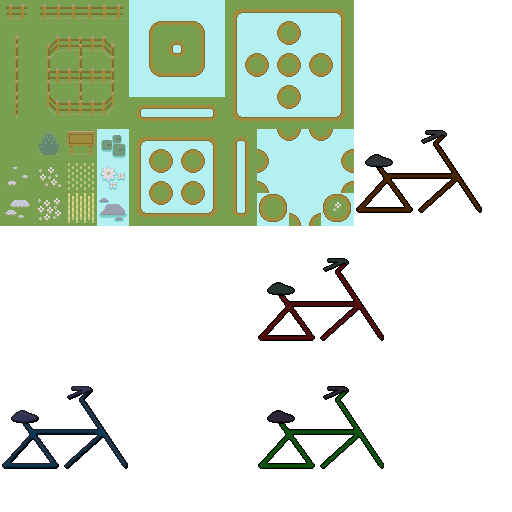
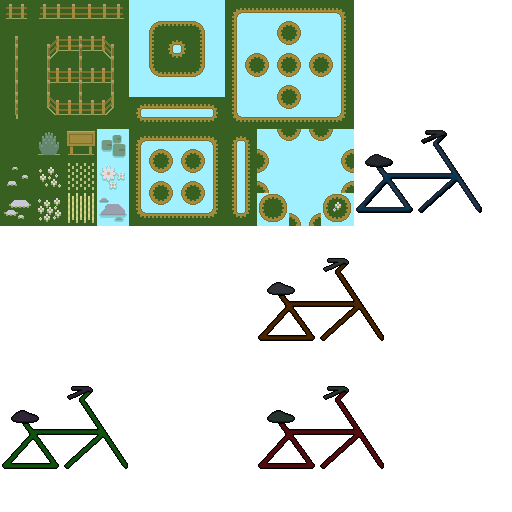
bike up
bike up

diff --git a/c3/bike/scripts/c3runtime.js b/c3/bike/scripts/c3runtime.js
@@ -1407,7 +1407,9 @@ d&&d.SetAction(()=>this._CancelJob(h));this._inputPort.postMessage(b,e);this._Ma
 b.result);break;case "progress":this._OnJobProgress(e,b.progress);break;case "error":this._OnJobError(e,b.error);break;case "ready":this._OnJobWorkerReady();break;case "_testMessageChannelOk":this._OnTestMessageChannelOk();break;default:throw Error(`unknown message from worker '${a}'`);}}_OnJobResult(b,a){const e=this._jobPromises.get(b);if(!e)throw Error("invalid job ID");e.cancelled||e.resolve(a);this._jobPromises.delete(b)}_OnJobProgress(b,a){b=this._jobPromises.get(b);if(!b)throw Error("invalid job ID");
 !b.cancelled&&b.progress&&b.progress(a)}_OnJobError(b,a){const e=this._jobPromises.get(b);if(!e)throw Error("invalid job ID");e.cancelled||e.reject(a);this._jobPromises.delete(b)}_OnJobWorkerReady(){this._isCreatingWorker&&(this._isCreatingWorker=!1,this._jobWorkerCount++,this._jobWorkerCount<this._maxNumWorkers?this._MaybeCreateExtraWorker():this._inputPort.postMessage({type:"_no_more_workers"}))}async _MaybeCreateExtraWorker(){if(!(this._jobWorkerCount>=this._maxNumWorkers||this._isCreatingWorker||
 this._hadErrorCreatingWorker||this._jobPromises.size<=this._jobWorkerCount))try{this._isCreatingWorker=!0,(await this._runtime.PostComponentMessageToDOMAsync("runtime","create-job-worker")).outputPort.onmessage=b=>this._OnJobWorkerMessage(b)}catch(b){this._hadErrorCreatingWorker=!0,this._isCreatingWorker=!1,console.error(`[Construct 3] Failed to create job worker; stopping creating any more (created ${this._jobWorkerCount} so far)`,b)}}_TestMessageChannelWorks(){this._inputPort.postMessage({type:"_testMessageChannel"});
-self.setTimeout(()=>this._CheckMessageChannelTestTimedOut(),2E3);return new Promise(b=>this._testOkResolve=b)}_OnTestMessageChannelOk(){this._testOkResolve();this._testOkResolve=null}_CheckMessageChannelTestTimedOut(){this._testOkResolve&&(console.warn("MessageChannel determined to be broken. Job scheduler disabled."),this._isBroken=!0,this._testOkResolve(),this._testOkResolve=null)}}}self.C3_Shaders={};"use strict";
+self.setTimeout(()=>this._CheckMessageChannelTestTimedOut(),2E3);return new Promise(b=>this._testOkResolve=b)}_OnTestMessageChannelOk(){this._testOkResolve();this._testOkResolve=null}_CheckMessageChannelTestTimedOut(){this._testOkResolve&&(console.warn("MessageChannel determined to be broken. Job scheduler disabled."),this._isBroken=!0,this._testOkResolve(),this._testOkResolve=null)}}}self.C3_Shaders={};
+self.C3_Shaders.hsladjust={src:"varying mediump vec2 vTex;\nuniform lowp sampler2D samplerFront;\nprecision mediump float;\nuniform float huerotate;\nuniform float satadjust;\nuniform float lumadjust;\nvec3 rgb_to_hsl(vec3 color)\n{\nvec3 hsl = vec3(0.0, 0.0, 0.0);\nfloat fmin = min(min(color.r, color.g), color.b);\nfloat fmax = max(max(color.r, color.g), color.b);\nfloat delta = fmax - fmin;\nhsl.z = (fmax + fmin) / 2.0;\nif (delta == 0.0)\n{\nhsl.x = 0.0;\nhsl.y = 0.0;\n}\nelse\n{\nif (hsl.z < 0.5)\nhsl.y = delta / (fmax + fmin);\nelse\nhsl.y = delta / (2.0 - fmax - fmin);\nfloat dR = (((fmax - color.r) / 6.0) + (delta / 2.0)) / delta;\nfloat dG = (((fmax - color.g) / 6.0) + (delta / 2.0)) / delta;\nfloat dB = (((fmax - color.b) / 6.0) + (delta / 2.0)) / delta;\nif (color.r == fmax)\nhsl.x = dB - dG;\nelse if (color.g == fmax)\nhsl.x = (1.0 / 3.0) + dR - dB;\nelse if (color.b == fmax)\nhsl.x = (2.0 / 3.0) + dG - dR;\nif (hsl.x < 0.0)\nhsl.x += 1.0;\nelse if (hsl.x > 1.0)\nhsl.x -= 1.0;\n}\nreturn hsl;\n}\nfloat hue_to_rgb(float f1, float f2, float hue)\n{\nif (hue < 0.0)\nhue += 1.0;\nelse if (hue > 1.0)\nhue -= 1.0;\nfloat ret;\nif ((6.0 * hue) < 1.0)\nret = f1 + (f2 - f1) * 6.0 * hue;\nelse if ((2.0 * hue) < 1.0)\nret = f2;\nelse if ((3.0 * hue) < 2.0)\nret = f1 + (f2 - f1) * ((2.0 / 3.0) - hue) * 6.0;\nelse\nret = f1;\nreturn ret;\n}\nvec3 hsl_to_rgb(vec3 hsl)\n{\nvec3 rgb = vec3(hsl.z);\nif (hsl.y != 0.0)\n{\nfloat f2;\nif (hsl.z < 0.5)\nf2 = hsl.z * (1.0 + hsl.y);\nelse\nf2 = (hsl.z + hsl.y) - (hsl.y * hsl.z);\nfloat f1 = 2.0 * hsl.z - f2;\nrgb.r = hue_to_rgb(f1, f2, hsl.x + (1.0 / 3.0));\nrgb.g = hue_to_rgb(f1, f2, hsl.x);\nrgb.b = hue_to_rgb(f1, f2, hsl.x - (1.0 / 3.0));\n}\nreturn rgb;\n}\nvoid main(void)\n{\nvec4 front = texture2D(samplerFront, vTex);\nvec3 rgb = rgb_to_hsl(front.rgb) + vec3((huerotate > 0.5 ? huerotate - 1.0 : huerotate), 0, (lumadjust - 1.0) * front.a);\nrgb.y *= satadjust;\nrgb = hsl_to_rgb(rgb);\ngl_FragColor = vec4(rgb, front.a);\n}",extendBoxHorizontal:0,
+extendBoxVertical:0,crossSampling:!1,mustPreDraw:!1,preservesOpaqueness:!0,animated:!1,parameters:[["huerotate",0,"percent"],["satadjust",0,"percent"],["lumadjust",0,"percent"]]};"use strict";
 {const f=self.C3;let b=null,a="",e="",c=[],d="",h="",k="";const n=f.New(f.ArrayStack);function m(g,q){g=g[1];q=q[1];if("number"===typeof g&&"number"===typeof q)return g-q;g=""+g;q=""+q;return g<q?-1:g>q?1:0}f.Plugins.System=class extends f.SDKPluginBase{constructor(g){super(g);this._loopStack=this._runtime.GetEventSheetManager().GetLoopStack();this._eventStack=this._runtime.GetEventSheetManager().GetEventStack();this._imagesLoadingComplete=this._imagesLoadingTotal=0;this._functionMaps=new Map}Release(){super.Release()}UpdateRender(){this._runtime.UpdateRender()}Trigger(g){this._runtime.Trigger(g,
 null,null)}GetRegex(g,q){b&&g===a&&q===e||(b=new RegExp(g,q),a=g,e=q);b.lastIndex=0;return b}GetRegexMatches(g,q,t){if(g===d&&q===h&&t===k)return c;const r=this.GetRegex(q,t);c=g.match(r);d=g;h=q;k=t;return c}async _LoadTexturesForObjectClasses(g,q){if(q.length){this._imagesLoadingTotal+=q.length;var t=[];for(const r of q)t.push(g.MaybeLoadTexturesFor(r));await f.PromiseAllWithProgress(t,()=>{this._imagesLoadingComplete++});this._imagesLoadingComplete++;this._imagesLoadingComplete===this._imagesLoadingTotal&&
 (this._runtime.Trigger(f.Plugins.System.Cnds.OnImageLoadingComplete,null,null),this._imagesLoadingTotal=this._imagesLoadingComplete=0)}}_UnloadTexturesForObjectClasses(g,q){for(const t of q)0===t.GetInstanceCount()&&g.MaybeUnloadTexturesFor(t)}_GetForEachStack(){return n}_Repeat(g){var q=this._runtime.GetEventSheetManager();const t=q.GetEventStack(),r=t.GetCurrentStackFrame(),u=r.GetCurrentEvent(),w=u.GetSolModifiers();var y=r.IsSolModifierAfterCnds();const B=t.Push(u),G=q.GetLoopStack(),x=G.Push();
@@ -1839,11 +1841,12 @@ n,m,g,q,t,r,u,w,y){this._SetCommonProperties(c,n,t,r,u,w,y);k=b.Maps.GetPairProp
 {const f=self.C3,b=f.Behaviors.Tween,a=[];b.PropertyTypes=class{constructor(){}static Pick(e){0===a.length&&(a.push({checkFunc:b.Maps.IsPairId,result:this.PAIR}),a.push({checkFunc:b.Maps.IsColorId,result:this.COLOR}),a.push({checkFunc:b.Maps.IsAngleId,result:this.ANGLE}),a.push({checkFunc:b.Maps.IsValueId,result:this.VALUE}),a.push({checkFunc:()=>!0,result:this.OTHER}));f.IsFiniteNumber(e)&&(e=f.Behaviors.Tween.Maps.GetPropertyFromIndex(e));for(const c of a)if(c.checkFunc(e))return c.result}static get PAIR(){return"pair"}static get COLOR(){return"color"}static get ANGLE(){return"angle"}static get VALUE(){return"value"}static get OTHER(){return"other"}}}"use strict";
 {const f=self.C3;f.Behaviors.Tween.ValueGetters=class{constructor(){}static _GetPropertyAngleValue(b){b=f.toRadians(parseFloat(b));return f.clampAngle(b)}static _GetColorPropertyValue(b){return b.slice(0)}static _GetPropertyValue(b){return b}}}"use strict";
 {const f=self.C3;self.C3_GetObjectRefTable=function(){return[f.Plugins.Tilemap,f.Plugins.Sprite,f.Behaviors.Sin,f.Plugins.TiledBg,f.Behaviors.Physics,f.Behaviors.Pin,f.Plugins.Mouse,f.Plugins.Keyboard,f.Plugins.Text,f.Plugins.NinePatch,f.Behaviors.Rotate,f.Behaviors.Orbit,f.Behaviors.Flash,f.Behaviors.scrollto,f.Behaviors.Tween,f.Plugins.Particles,f.Plugins.System.Cnds.OnLayoutStart,f.Plugins.System.Acts.CreateObject,f.Plugins.Sprite.Exps.X,f.Plugins.Sprite.Exps.Y,f.Plugins.Sprite.Acts.Spawn,f.Behaviors.Pin.Acts.PinByImagePoint,
-f.Behaviors.Physics.Acts.CreateRevoluteJoint,f.Plugins.System.Acts.SetBoolVar,f.Plugins.System.Acts.SetVar,f.Plugins.Sprite.Cnds.OnCollision,f.Plugins.Sprite.Acts.Destroy,f.Plugins.System.Acts.AddVar,f.Plugins.Mouse.Cnds.OnObjectClicked,f.Plugins.System.Acts.GoToLayoutByName,f.Plugins.Sprite.Exps.AnimationName,f.Plugins.System.Cnds.PickLastCreated,f.Plugins.Sprite.Cnds.IsBoolInstanceVarSet,f.Behaviors.Physics.Acts.SetAngularVelocity,f.Behaviors.Physics.Exps.AngularVelocity,f.Plugins.Keyboard.Cnds.OnKey,
-f.Plugins.System.Cnds.CompareBoolVar,f.Plugins.System.Acts.ToggleBoolVar,f.Plugins.System.Acts.SetTimescale,f.Plugins.Sprite.Acts.SetVisible,f.Plugins.Sprite.Acts.SetAnim,f.Plugins.Sprite.Acts.SetDefaultColor,f.Plugins.Sprite.Cnds.IsOverlapping,f.Plugins.System.Acts.GoToLayout,f.Plugins.System.Cnds.Compare,f.Behaviors.Physics.Exps.ContactCount,f.Plugins.Sprite.Acts.SetBoolInstanceVar,f.Plugins.Keyboard.Cnds.IsKeyDown,f.Behaviors.Physics.Acts.ApplyTorque,f.Behaviors.Physics.Acts.ApplyImpulseAtAngle,
-f.Behaviors.Physics.Acts.ApplyForceAtAngle,f.Behaviors.Physics.Exps.VelocityX,f.Plugins.Sprite.Acts.SetMirrored,f.Plugins.System.Cnds.CompareVar,f.Plugins.System.Acts.SubVar,f.Plugins.Sprite.Cnds.IsMirrored,f.Plugins.Sprite.Exps.Angle,f.Plugins.System.Exps.random,f.Behaviors.Physics.Acts.RemoveJoints,f.Behaviors.Pin.Acts.Unpin,f.Behaviors.Physics.Acts.SetEnabled,f.Behaviors.scrollto.Acts.Shake,f.Plugins.System.Cnds.TriggerOnce,f.Plugins.Text.Acts.SetVisible,f.Behaviors.Flash.Acts.Flash,f.Plugins.TiledBg.Cnds.CompareOpacity,
-f.Plugins.TiledBg.Acts.SetOpacity,f.Plugins.TiledBg.Exps.Opacity,f.Plugins.Mouse.Cnds.OnAnyClick,f.Plugins.Keyboard.Cnds.OnAnyKey,f.Behaviors.Flash.Acts.StopFlashing,f.Behaviors.Tween.Acts.TweenTwoProperties,f.Behaviors.Tween.Cnds.OnTweensFinished]};self.C3_JsPropNameTable=[{Tilemap:0},{Sine:0},{Abilinto:0},{Physics:0},{Pin:0},{SolidMask:0},{Airborne:0},{Wrecked:0},{BikeFrame:0},{BikePedalRight:0},{BikePedalLeft:0},{BikePedals:0},{BikeWheelRear:0},{BikeWheelFront:0},{Mouse:0},{Keyboard:0},{SolidRamp:0},
-{DebugText:0},{Rotate:0},{Orbit:0},{Platform:0},{Fade:0},{YouCrashed:0},{Flag:0},{TryAgain:0},{SpawnPoint:0},{Footer:0},{Flash:0},{YouCrashedFX:0},{SpawnText:0},{ScrollTo:0},{Tween:0},{BikeCollider:0},{HowTo:0},{Gem:0},{NitroFX:0},{Track:0},{TrackSelectFrame:0},{TrackSelect:0},{TrackSelectText:0},{MaxSpeed:0},{Acceleration:0},{JumpPower:0},{BikeCrashed:0},{GamePaused:0},{NitroCharges:0},{NitroPower:0},{NitroTimer:0},{FlagChecked:0},{StageWon:0},{GemsCollected:0}]}"use strict";
-{const f=self.C3;self.C3_ExpressionFuncs=[()=>"Track",b=>{const a=b._GetNode(0);return()=>a.ExpObject()},()=>0,()=>"RearWheel",()=>-1,()=>"FrontWheel",()=>"Pedals",()=>"LeftPedal",()=>"RightPedal",()=>3,()=>1,b=>{const a=b._GetNode(0),e=b._GetNode(1).GetVar(),c=b._GetNode(2).GetVar();return()=>f.clamp(a.ExpBehavior(),-e.GetValue(),c.GetValue())},()=>"Raise",()=>10551200,b=>{const a=b._GetNode(0);return()=>a.ExpBehavior()},b=>{const a=b._GetNode(0).GetVar();return()=>a.GetValue()},b=>{const a=b._GetNode(0).GetVar();
-return()=>-a.GetValue()},b=>{const a=b._GetNode(0).GetVar();return()=>a.GetValue()/4},()=>270,b=>{const a=b._GetNode(0).GetVar();return()=>a.GetValue()/2},b=>{const a=b._GetNode(0).GetVar();return()=>2*a.GetValue()},b=>{const a=b._GetNode(0),e=b._GetNode(1);return()=>a.ExpBehavior()+e.ExpBehavior()},()=>-10,()=>10,()=>60,()=>"Nitro",()=>8,b=>{const a=b._GetNode(0).GetBoundMethod();return()=>a(40,80)},b=>{const a=b._GetNode(0).GetBoundMethod();return()=>a(12,24)},b=>{const a=b._GetNode(0).GetBoundMethod();
-return()=>270+a(-45,45)},b=>{const a=b._GetNode(0).GetBoundMethod();return()=>a(.5,1)},b=>{const a=b._GetNode(0).GetBoundMethod();return()=>a(1,2)},b=>{const a=b._GetNode(0).GetBoundMethod();return()=>a(24,48)},()=>30,()=>.6,()=>"Default",()=>10526975,()=>.1,b=>{const a=b._GetNode(0);return()=>a.ExpObject()+1},()=>"Restart"]}"use strict";self.C3.ScriptsInEvents={};
+f.Behaviors.Physics.Acts.CreateRevoluteJoint,f.Plugins.System.Acts.SetBoolVar,f.Plugins.System.Acts.SetVar,f.Plugins.Sprite.Cnds.OnCollision,f.Plugins.Sprite.Acts.Destroy,f.Plugins.System.Acts.AddVar,f.Plugins.Mouse.Cnds.OnObjectClicked,f.Plugins.System.Acts.GoToLayoutByName,f.Plugins.Sprite.Exps.AnimationName,f.Plugins.Text.Acts.SetText,f.Plugins.System.Exps.zeropad,f.Plugins.System.Cnds.PickLastCreated,f.Plugins.Sprite.Cnds.IsBoolInstanceVarSet,f.Behaviors.Physics.Acts.SetAngularVelocity,f.Behaviors.Physics.Exps.AngularVelocity,
+f.Plugins.Keyboard.Cnds.OnKey,f.Plugins.System.Cnds.CompareBoolVar,f.Plugins.Text.Acts.SetVisible,f.Plugins.System.Acts.ToggleBoolVar,f.Plugins.System.Acts.SetTimescale,f.Plugins.Sprite.Acts.SetVisible,f.Plugins.Sprite.Acts.SetAnim,f.Plugins.Sprite.Acts.SetDefaultColor,f.Plugins.Sprite.Cnds.IsOverlapping,f.Plugins.System.Acts.GoToLayout,f.Plugins.System.Cnds.Compare,f.Behaviors.Physics.Exps.ContactCount,f.Plugins.Sprite.Acts.SetBoolInstanceVar,f.Plugins.Keyboard.Cnds.IsKeyDown,f.Behaviors.Physics.Acts.ApplyTorque,
+f.Behaviors.Physics.Acts.ApplyImpulseAtAngle,f.Behaviors.Physics.Acts.ApplyForceAtAngle,f.Behaviors.Physics.Exps.VelocityX,f.Plugins.Sprite.Acts.SetMirrored,f.Plugins.System.Cnds.CompareVar,f.Plugins.System.Acts.SubVar,f.Plugins.Sprite.Cnds.IsMirrored,f.Plugins.Sprite.Exps.Angle,f.Plugins.System.Exps.random,f.Behaviors.Physics.Acts.RemoveJoints,f.Behaviors.Pin.Acts.Unpin,f.Behaviors.Physics.Acts.SetEnabled,f.Behaviors.scrollto.Acts.Shake,f.Plugins.System.Cnds.TriggerOnce,f.Behaviors.Flash.Acts.Flash,
+f.Plugins.TiledBg.Cnds.CompareOpacity,f.Plugins.TiledBg.Acts.SetOpacity,f.Plugins.TiledBg.Exps.Opacity,f.Behaviors.Flash.Acts.StopFlashing,f.Behaviors.Tween.Acts.TweenTwoProperties,f.Behaviors.Tween.Cnds.OnTweensFinished]};self.C3_JsPropNameTable=[{Tilemap:0},{Sine:0},{Abilinto:0},{Physics:0},{Pin:0},{SolidMask:0},{Airborne:0},{Wrecked:0},{BikeFrame:0},{BikePedalRight:0},{BikePedalLeft:0},{BikePedals:0},{BikeWheelRear:0},{BikeWheelFront:0},{Mouse:0},{Keyboard:0},{SolidRamp:0},{DebugText:0},{Rotate:0},
+{Orbit:0},{Platform:0},{Fade:0},{YouCrashed:0},{Flag:0},{TryAgain:0},{SpawnPoint:0},{Footer:0},{Flash:0},{YouCrashedFX:0},{ScrollTo:0},{Tween:0},{BikeCollider:0},{HowTo:0},{Gem:0},{NitroFX:0},{Track:0},{TrackSelectFrame:0},{TrackSelect:0},{TrackSelectText:0},{BG:0},{CleanupConfirm:0},{EventPoint:0},{GemIcon:0},{GemAmount:0},{MaxSpeed:0},{Acceleration:0},{JumpPower:0},{BikeCrashed:0},{GamePaused:0},{NitroCharges:0},{NitroPower:0},{NitroTimer:0},{FlagChecked:0},{StageWon:0},{StuntSpin:0},{StuntWheelie:0}]}"use strict";
+{const f=self.C3;self.C3_ExpressionFuncs=[()=>"Track",b=>{const a=b._GetNode(0);return()=>a.ExpObject()},()=>0,()=>"RearWheel",()=>-1,()=>"FrontWheel",()=>"Pedals",()=>"LeftPedal",()=>"RightPedal",()=>3,()=>1,b=>{const a=b._GetNode(0).GetBoundMethod(),e=b._GetNode(1).GetVar();return()=>"[size=14][offsetY=-3]x[/offsetY][/size]"+a(e.GetValue(),2)},b=>{const a=b._GetNode(0),e=b._GetNode(1).GetVar(),c=b._GetNode(2).GetVar();return()=>f.clamp(a.ExpBehavior(),-e.GetValue(),c.GetValue())},()=>"Raise",()=>
+10551200,b=>{const a=b._GetNode(0);return()=>a.ExpBehavior()},b=>{const a=b._GetNode(0).GetVar();return()=>1.5*a.GetValue()},b=>{const a=b._GetNode(0).GetVar();return()=>1.5*-a.GetValue()},b=>{const a=b._GetNode(0).GetVar();return()=>a.GetValue()/2},()=>270,b=>{const a=b._GetNode(0).GetVar();return()=>2*a.GetValue()},b=>{const a=b._GetNode(0).GetVar();return()=>-a.GetValue()},b=>{const a=b._GetNode(0),e=b._GetNode(1);return()=>a.ExpBehavior()+e.ExpBehavior()},()=>-10,b=>{const a=b._GetNode(0).GetVar();
+return()=>a.GetValue()},()=>10,()=>60,()=>"Nitro",()=>2,b=>{const a=b._GetNode(0).GetVar();return()=>-a.GetValue()/2},b=>{const a=b._GetNode(0).GetBoundMethod();return()=>a(2,4)},b=>{const a=b._GetNode(0).GetBoundMethod();return()=>270+a(-45,45)},b=>{const a=b._GetNode(0).GetBoundMethod();return()=>a(40,80)},b=>{const a=b._GetNode(0).GetBoundMethod();return()=>a(12,24)},b=>{const a=b._GetNode(0).GetBoundMethod();return()=>a(.2,.4)},b=>{const a=b._GetNode(0).GetBoundMethod();return()=>a(1,2)},b=>{const a=
+b._GetNode(0).GetBoundMethod();return()=>a(24,48)},()=>30,()=>.6,()=>"Default",()=>10526975,()=>.1,()=>20,b=>{const a=b._GetNode(0);return()=>a.ExpObject()+1},()=>"Restart",()=>999]}"use strict";self.C3.ScriptsInEvents={};
